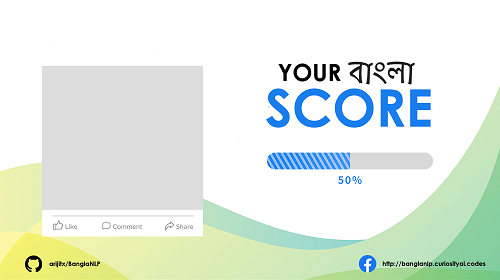
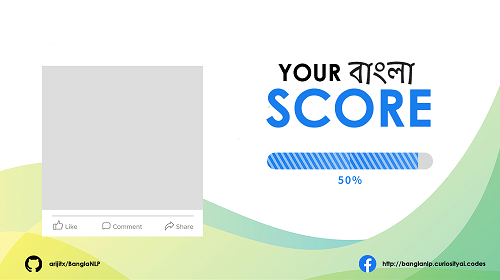
testing fb login

Changed region(s): [[0.69, 0.5429, 0.84, 0.6286]]

diff --git a/webApp/static/script/client_script.js b/webApp/static/script/client_script.js
@@ -17,26 +17,26 @@ function initFBshare(){
     }
     bg.src = "static/template.png";
     function drawScrollbar () {
-        var width = 30,
-            height = 150,
+        var width = 145,
+            height = 15,
             max = 100,
             val = 80,
             direction = 'horizontal';
         
         // Draw the background
         ctx.fillStyle = '#000';
-        ctx.clearRect(250, 100, width, height);
-        ctx.fillRect(250, 100, width, height);
+        // ctx.clearRect(275, 153, width, height);
+        // ctx.fillRect(275, 153, width, height);
 
         // Draw the fill
         ctx.fillStyle = '#777';
         var fillVal = Math.min(Math.max(val / max, 0), 1);
         if (direction === 'vertical') {
-            ctx.fillRect(250,100, width, (max-val)*height/max );
+            ctx.fillRect(275, 153, width, (max-val)*height/max );
             // ctx.strokeRect(248, 98, 32, 150);
 
         } else {
-            ctx.fillRect(250, 100, (max-val) * width/max, height);
+            ctx.fillRect(275, 153, (max-val) * width/max, height);
         }
     }
     
@@ -56,12 +56,12 @@ function initFBshare(){
                 
                 user = response.id;
                 base_image.onload = function(){
-                    ctx.drawImage(base_image, 40, 100,150,150);
+                    ctx.drawImage(base_image, 40, 66,160,154);
                     // ctx.strokeRect(36, 96, 154, 154);
                     
                     
-                    ctx.font = "30px Arial";
-                    ctx.fillText(response.name, 10, 50);
+                    ctx.font = "24px Arial";
+                    ctx.fillText(response.name, 42, 40);
                     drawScrollbar();
                     var dataURL = canvas.toDataURL('image/jpeg');
                     console.log(dataURL);

diff --git a/webApp/static/index.html b/webApp/static/index.html
@@ -91,7 +91,7 @@
                             </button>
                           </div>
                           <div class="modal-body">
-                            <canvas id="canvas" width="500" height="300"></canvas>
+                            <canvas id="canvas" width="500" height="280"></canvas>
                             <canvas id='imc'></canvas>
                           </div>
                           <div class="modal-footer">
